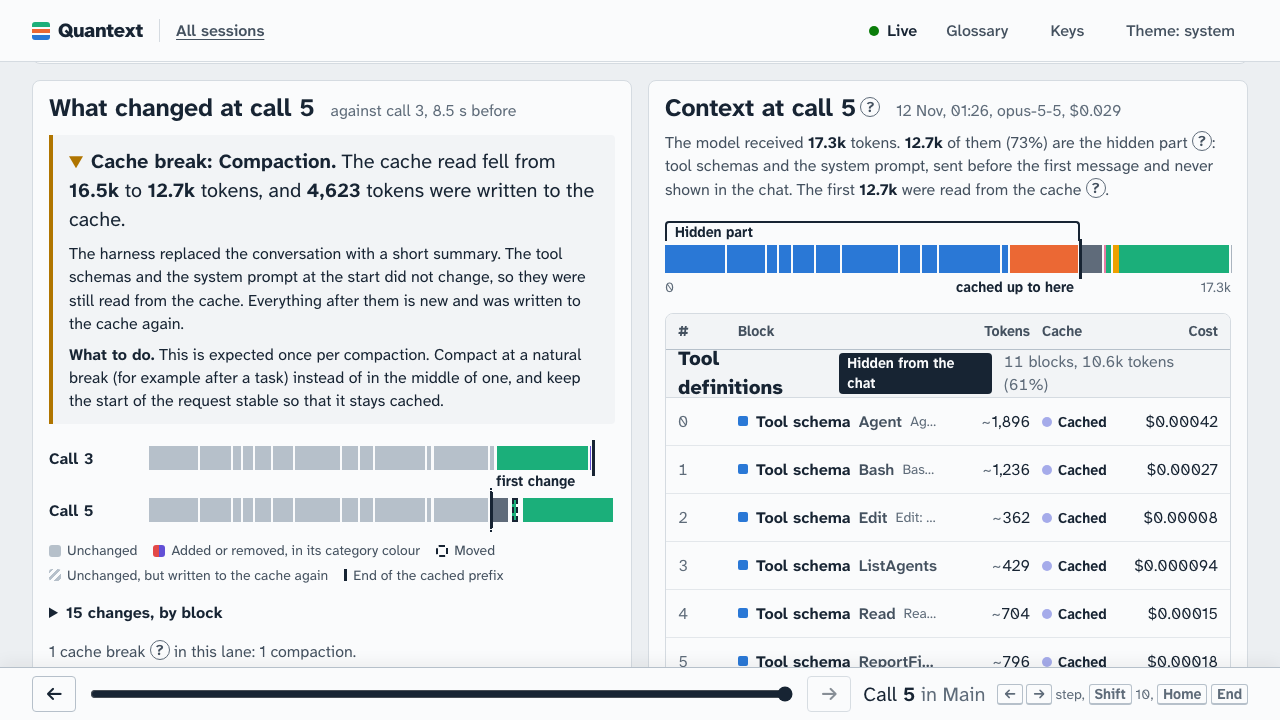
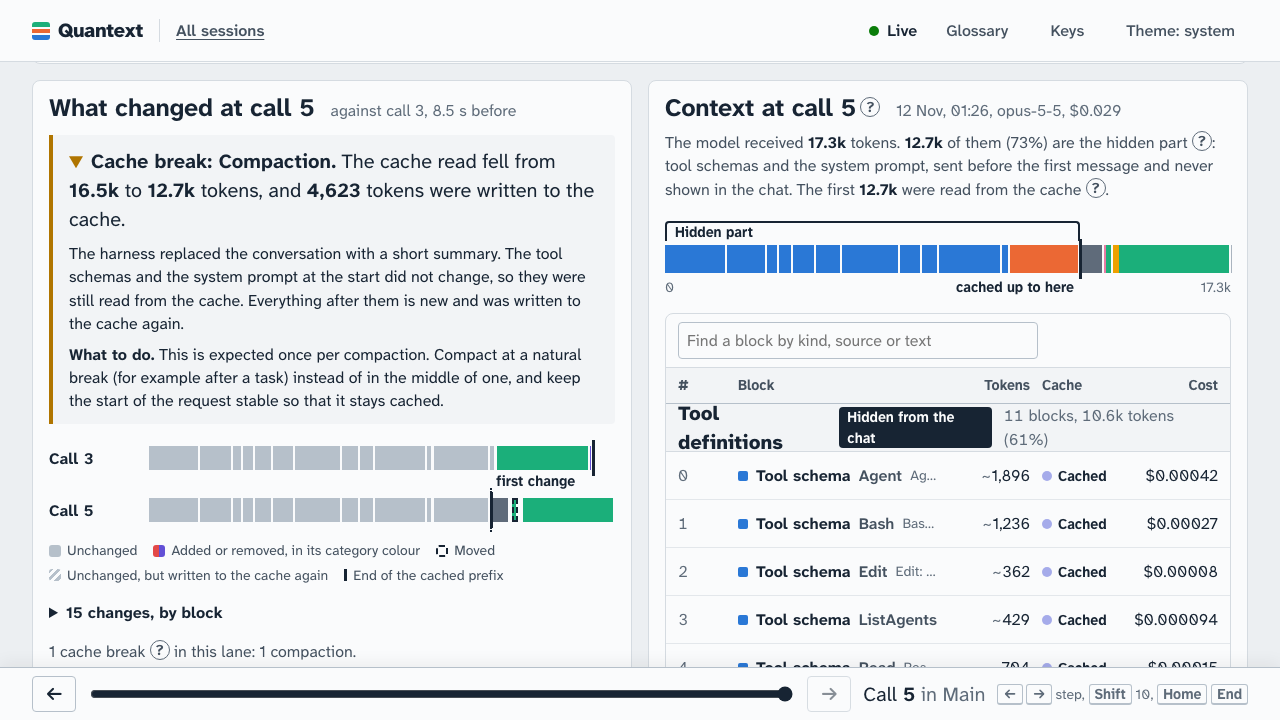
Retake the screenshots with the parts of injected blocks
Adds parts-*.png: the skill listing found by a search, under the
merged block, with the part totals under Injected context. The other
screens change because the block list has a find box now.

diff --git a/e2e/screens.e2e.ts b/e2e/screens.e2e.ts
@@ -54,6 +54,17 @@ const SHOTS: Shot[] = [
     },
   },
   {
+    // The skill listing found by a search: a part of the merged injected block, and its total under the category.
+    name: "parts",
+    both: true,
+    go: async (page, engine) => {
+      await page.goto(`${await engine.sessionUrl("basic-tools")}?call=1`);
+      await page.getByTestId("block-find").fill("skill");
+      await expect(page.locator('[data-part="Skill listing"]')).toBeVisible();
+      await page.evaluate(`document.getElementById("context-title")?.scrollIntoView({ block: "start" })`);
+    },
+  },
+  {
     // The last answer of the session: reasoning folded, the text with its line breaks.
     name: "response",
     both: true,
